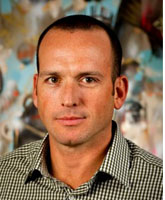
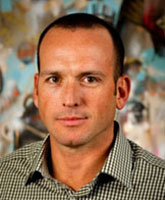
update mentor photo + begin ie specific styles

diff --git a/wp-content/themes/flashpoint/ie9.css b/wp-content/themes/flashpoint/ie9.css
@@ -1,0 +1,3 @@
+#mentors-list img { width: 165px; height: 200px }
+
+.mentor-details { width: 165px; }
